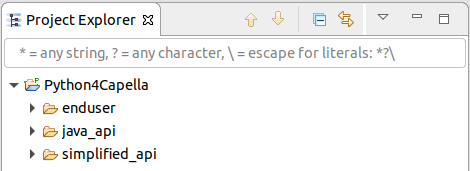
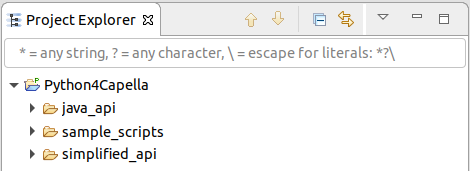
Renamed enduser folder to sample_scripts.

Changed region(s): [[0.1191, 0.731, 0.3574, 0.8187], [0.1191, 0.5848, 0.2681, 0.7018]]

diff --git a/doc/org.eclipse.python4capella.doc/doc/user/general/Run.html b/doc/org.eclipse.python4capella.doc/doc/user/general/Run.html
@@ -26,17 +26,17 @@
 		<h2 id="Commandline">Command line</h2>
 		<p>You can also run your Python4Capella script from the command line:</p>
 		<p>Windows</p>
-		<pre><code>eclipse -application org.eclipse.ease.runScript -workspace .\workspace -script workspace:/Python4Capella/enduser/my_script.py *arguments*
+		<pre><code>eclipse -application org.eclipse.ease.runScript -workspace .\workspace -script workspace:/Python4Capella/sample_scripts/my_script.py *arguments*
 </code></pre>
 		<p>Linux and Mac OS X</p>
-		<pre><code>./eclipse -application org.eclipse.ease.runScript -workspace ./workspace -script workspace:/Python4Capella/enduser/my_script.py *arguments*
+		<pre><code>./eclipse -application org.eclipse.ease.runScript -workspace ./workspace -script workspace:/Python4Capella/sample_scripts/my_script.py *arguments*
 </code></pre>
 		<p>Note: Since Capella 5.0 the eclipse executable has been renamed to capella, you should use:</p>
 		<p>Windows</p>
-		<pre><code>capella -application org.eclipse.ease.runScript -workspace .\workspace -script workspace:/Python4Capella/enduser/my_script.py *arguments*
+		<pre><code>capella -application org.eclipse.ease.runScript -workspace .\workspace -script workspace:/Python4Capella/sample_scripts/my_script.py *arguments*
 </code></pre>
 		<p>Linux and Mac OS X</p>
-		<pre><code>./capella -application org.eclipse.ease.runScript -workspace ./workspace -script workspace:/Python4Capella/enduser/my_script.py *arguments*
+		<pre><code>./capella -application org.eclipse.ease.runScript -workspace ./workspace -script workspace:/Python4Capella/sample_scripts/my_script.py *arguments*
 </code></pre>
 	</body>
 </html>

diff --git a/README.md b/README.md
@@ -65,7 +65,7 @@ Select the Window > preferences menu
   - select the Scripting / Python Scripting (using Py4J) (/!\ not Scripting PyDev)
     - select the python executable from the [Python 2.7 installation section](#python-27-installation) by clicking the Browse button
   - select the Scripting / Scripting Locations
-    - add /Python4Capella/enduser by clicking the Add Workspace button
+    - add /Python4Capella/sample_scripts by clicking the Add Workspace button
 
 You can click the Apply and close button to finish your setup.
 
